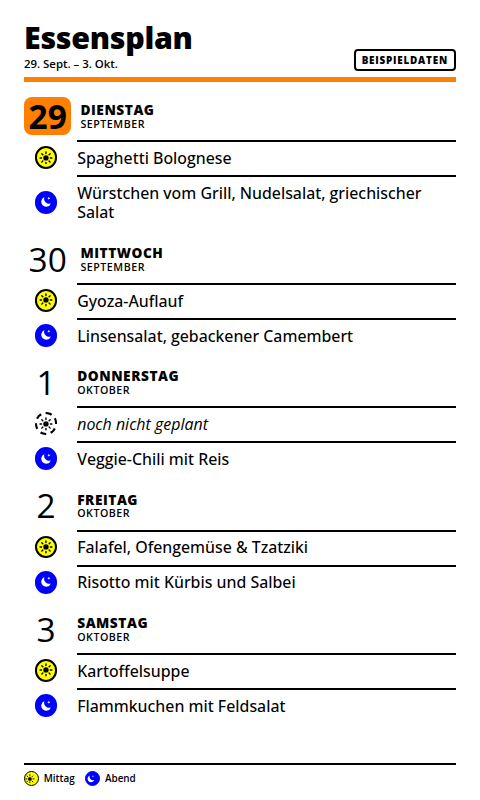
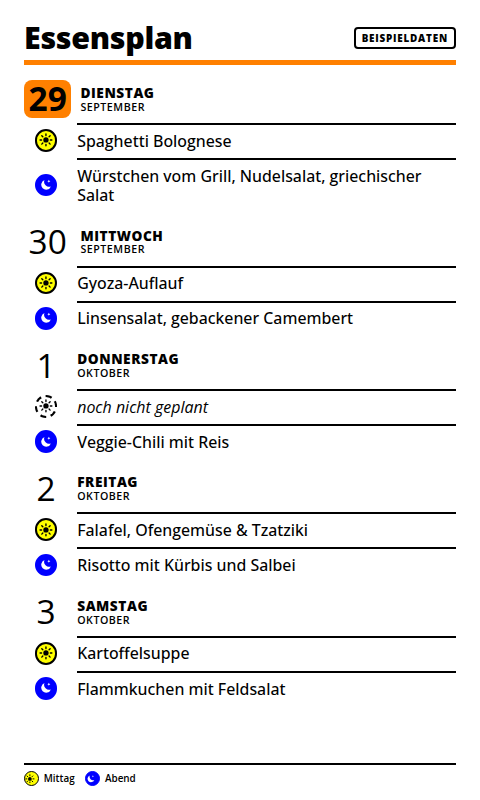
Remove date range below the Meal Plan Calendar title
The header now shows only the title and, for sample data, its label.

Claude-Session: https://claude.ai/code/session_016spRLE17zGqgwacGFc512h

Changed region(s): [[0.0312, 0.0312, 0.9688, 0.9062]]

diff --git a/applications/meal-plan-calendar/assets/render.js b/applications/meal-plan-calendar/assets/render.js
@@ -145,14 +145,6 @@ function renderDay(day, data, locale, messages) {
   </section>`;
 }
 
-function rangeLabel(days, locale) {
-  if (!days.length) return "";
-  const first = dayFromKey(days[0].date);
-  const last = dayFromKey(days.at(-1).date);
-  const short = formatter(locale, { day: "numeric", month: "short" });
-  return days.length === 1 ? short.format(first) : `${short.format(first)} – ${short.format(last)}`;
-}
-
 function usedSlots(days, data) {
   const slots = new Set(data.slots || []);
   for (const day of days) for (const meal of day.meals) slots.add(meal.slot);
@@ -166,10 +158,7 @@ function renderPlan(data, settings, messages, visibleCount) {
   const title = String(settings.title || "").trim() || messages.title;
   const head = settings.showHeader
     ? `<header class="mp-head">
-        <div>
-          <h1>${escapeHtml(title)}</h1>
-          <p class="mp-range">${escapeHtml(rangeLabel(days, locale))}</p>
-        </div>
+        <h1>${escapeHtml(title)}</h1>
         ${data.sample ? `<span class="mp-kicker">${escapeHtml(messages.sampleSource)}</span>` : ""}
       </header>`
     : "";

diff --git a/applications/meal-plan-calendar/render.html b/applications/meal-plan-calendar/render.html
@@ -57,7 +57,7 @@
 
       .mp-head {
         display: flex;
-        align-items: flex-end;
+        align-items: center;
         justify-content: space-between;
         gap: calc(var(--u) * 16);
         flex-shrink: 0;
@@ -71,11 +71,6 @@
         line-height: 1.05;
         letter-spacing: -0.01em;
         overflow-wrap: anywhere;
-      }
-      .mp-range {
-        margin: calc(var(--k) * 3) 0 0;
-        font-size: calc(var(--k) * 15);
-        font-weight: 600;
       }
       .mp-kicker {
         flex-shrink: 0;
@@ -307,15 +302,6 @@
         }
         .mp-mo {
           font-size: calc(var(--k) * 12);
-        }
-        .mp-head > div {
-          display: flex;
-          align-items: baseline;
-          flex-wrap: wrap;
-          column-gap: calc(var(--k) * 14);
-        }
-        .mp-head {
-          align-items: center;
         }
         .mp-legend .mp-slot {
           margin-top: 0;

diff --git a/applications/meal-plan-calendar/README.md b/applications/meal-plan-calendar/README.md
@@ -47,7 +47,7 @@ same slot are shown once.
 | `slots` | `lunch-dinner` | Slots shown as "not planned yet" when empty: `lunch-dinner`, `dinner`, `all`, `none`. |
 | `allDayMeal` | `dinner` | Slot for all-day entries without prefix: `dinner`, `lunch`, `breakfast`, `other`. |
 | `timeZone` | `Europe/Berlin` | IANA time zone for "today" and timed entries. |
-| `showHeader` | `true` | Show title, date range, and sample label. |
+| `showHeader` | `true` | Show title and sample label. |
 
 `sampleData` and `now` are available for previews and screenshot variants.
 
